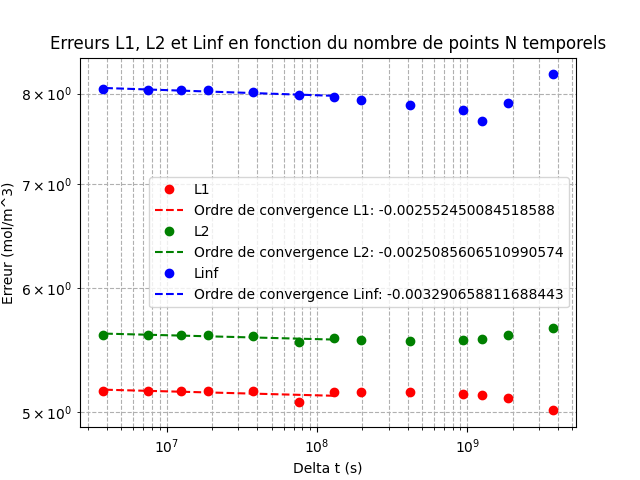
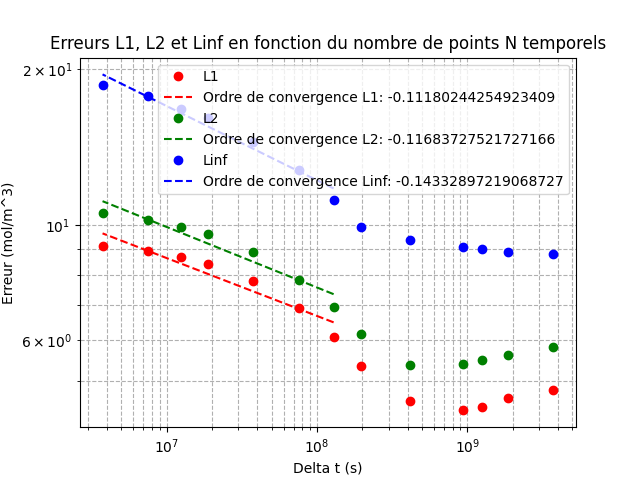
Correction d'un signe - dans le vect B pour le calc des concentrations

diff --git a/Devoir 2/src/functions.py b/Devoir 2/src/functions.py
@@ -27,7 +27,7 @@ k = config.k                    # Coefficient de réaction
 # Calcul du terme source
 ########################
 def terme_source(r,t):
-    """Définition de la fon,ctopn de terme source en implicite"""
+    """Définition du terme source."""
     S = np.exp(t/Tf) * (1/Tf) * (1 - r**2/R**2) \
        - D_EFF * (2 * C_E / R**2 - 2 * np.exp(t/Tf) / R**2 + 1 / r \
            * ( 2 *C_E * r / R**2 - np.exp(t/Tf) * 2 * r/R**2))+k\
@@ -39,6 +39,7 @@ def terme_source(r,t):
 # Calcul des concentrations
 ###########################
 def Concentrations(delta_r, delta_t):
+    """Calcul des concentraions avec la méthode des différences finies."""
     # Discrétisation
     N_spatial = (R / delta_r) + 1
     N_spatial = int(N_spatial)
@@ -72,7 +73,7 @@ def Concentrations(delta_r, delta_t):
     for i in range(len(t_i)):
         t=t_i[i]
         for j in range(1, N_spatial - 1):
-            vectB[j] = - C_i[j] / delta_t + terme_source(r_i[j], t)
+            vectB[j] = C_i[j] / delta_t + terme_source(r_i[j], t)
 
         # Résolution du système matriciel A * C_new = B
         C_new = np.linalg.solve(matA, vectB)
